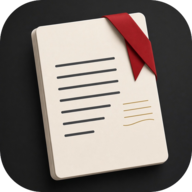
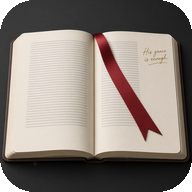
Ícono de la PWA: el libro abierto con la cinta
Se cambia el ícono por la imagen que eligió el dueño del repo: un libro
abierto sobre fondo oscuro, con la cinta roja y una glosa dorada en el
margen. La imagen queda en iconos/glossa-original.jpg.

Los recortes, como la vez anterior:
- 192 y 512 (purpose any): un cuadrado centrado en el libro, con esquinas
  redondeadas. 48 igual, 180 sin redondear (iOS redondea solo).
- 512 maskable: el libro más pequeño dentro del cuadro, para que el recorte
  redondo de Android no le corte las esquinas. El fondo que falta a los lados
  se rehace con un degradado radial como el de la foto —claro a media altura,
  oscuro en las esquinas— y la orilla de la foto se funde con él. Se probó
  antes estirar la propia foto borrosa y no valía: arrastraba la luz del
  libro y salían bandas claras a los lados.

Claude-Session: https://claude.ai/code/session_012btxv2VgacCYd19hWjqwZi

diff --git a/index.html b/index.html
@@ -6517,7 +6517,7 @@
    justamente el que sabe cuándo está haciendo el cambio.
 
    Formato: DD-MMM-YY HH:MM, hora de Dallas. */
-window.GLOSS_BUILD = '03-NOV-26 15:09';
+window.GLOSS_BUILD = '03-NOV-26 17:20';
 console.log('%cGloss Bible · compilación ' + window.GLOSS_BUILD,
             'color:#b8892b; font-weight:bold');
 'use strict';
